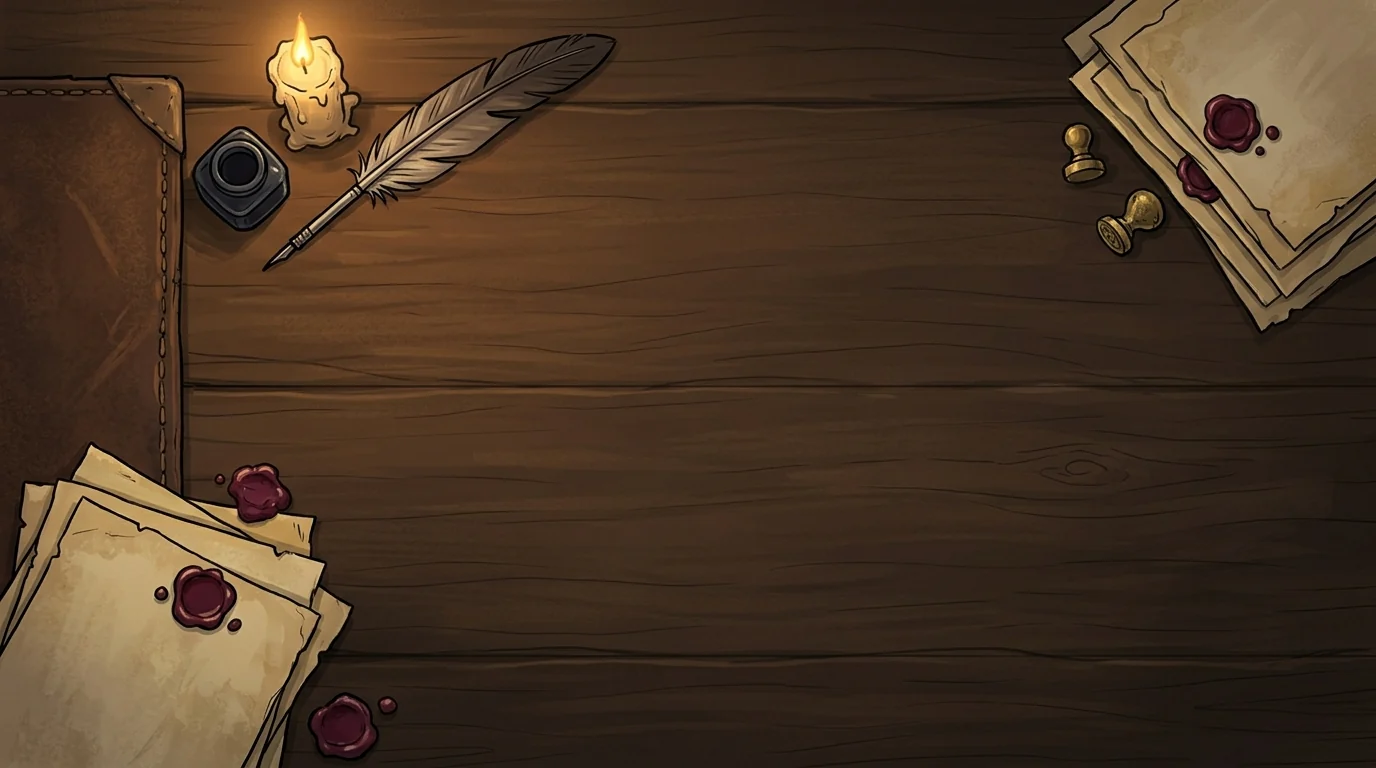
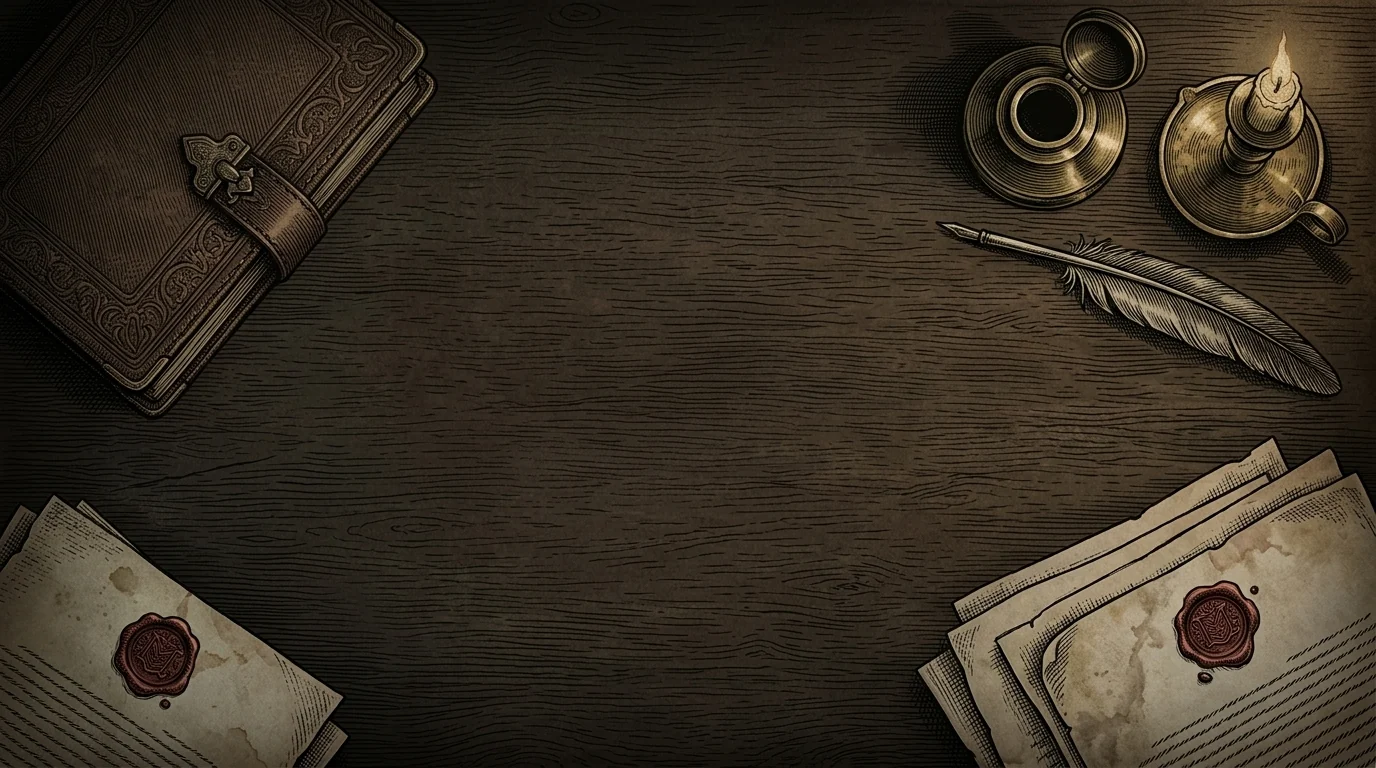
2.23.0: seven engraved full-screen backgrounds
Claude-Session: https://claude.ai/code/session_01DcTTRr3it9U614qgXSqALW

diff --git a/index.html b/index.html
@@ -2387,7 +2387,7 @@ img.clerk { box-shadow: none; border-radius: 0; object-fit: contain !important; 
 const E = window.Engine;
 // Semantic version: MAJOR = overhaul or redesign, MINOR = update, PATCH = bug fix. Bump it in every change and add a CHANGELOG.md entry.
 // Runs from before versioning carry the old tags 'v3' (first public playtest) and 'v4'.
-const VERSION = '2.22.1';
+const VERSION = '2.23.0';
 // Web build only: where run reports go (a Google Form). Empty in the Claude-hosted build.
 const REPORT = {"url": "https://docs.google.com/forms/d/e/1FAIpQLScAulcyNeUuIkKvoNN67TcOBPP4DqzCyN0W5lsdEM4vQ-SZ4w/formResponse", "entry": "entry.1553952563"};
 const BOARD_CSV = "https://docs.google.com/spreadsheets/d/e/2PACX-1vSUVN5ytJFkGg9NFstRvqxNMD3CIX85ApjWW1Hc8mw0DPSgz31VPmJhZ07FcwhStCdDALGtq5ZI2L8r/pub?gid=1200368070&single=true&output=csv"; // the Sheet's published Leaderboard tab; empty hides the board

diff --git a/src/ui.html b/src/ui.html
@@ -1516,7 +1516,7 @@ img.clerk { box-shadow: none; border-radius: 0; object-fit: contain !important; 
 const E = window.Engine;
 // Semantic version: MAJOR = overhaul or redesign, MINOR = update, PATCH = bug fix. Bump it in every change and add a CHANGELOG.md entry.
 // Runs from before versioning carry the old tags 'v3' (first public playtest) and 'v4'.
-const VERSION = '2.22.1';
+const VERSION = '2.23.0';
 // Web build only: where run reports go (a Google Form). Empty in the Claude-hosted build.
 const REPORT = { url: '', entry: '' }; /*REPORT_CONFIG*/
 const BOARD_CSV = ''; /*BOARD_CONFIG*/ // the Sheet's published Leaderboard tab; empty hides the board

diff --git a/CHANGELOG.md b/CHANGELOG.md
@@ -8,6 +8,10 @@ Scapegrace (called Guild Ledger before 1.20.0) uses a three-part version number,
 
 The version lives in `VERSION` near the top of the script in `src/ui.html`. It is shown at the bottom of every screen and sent with every run report, so feedback can be matched to the build that produced it.
 
+## 2.23.0
+
+- The seven full-screen backgrounds behind the tables (three acts, three boss halls, contract desk) are redrawn as engravings to match the rest of the game.
+
 ## 2.22.1
 
 - Death screen: on roomy screens the panel steps to the left and the scene shows on the right (the goat looking down at the helmet), with a bigger title and epitaph and a lighter red wash.
